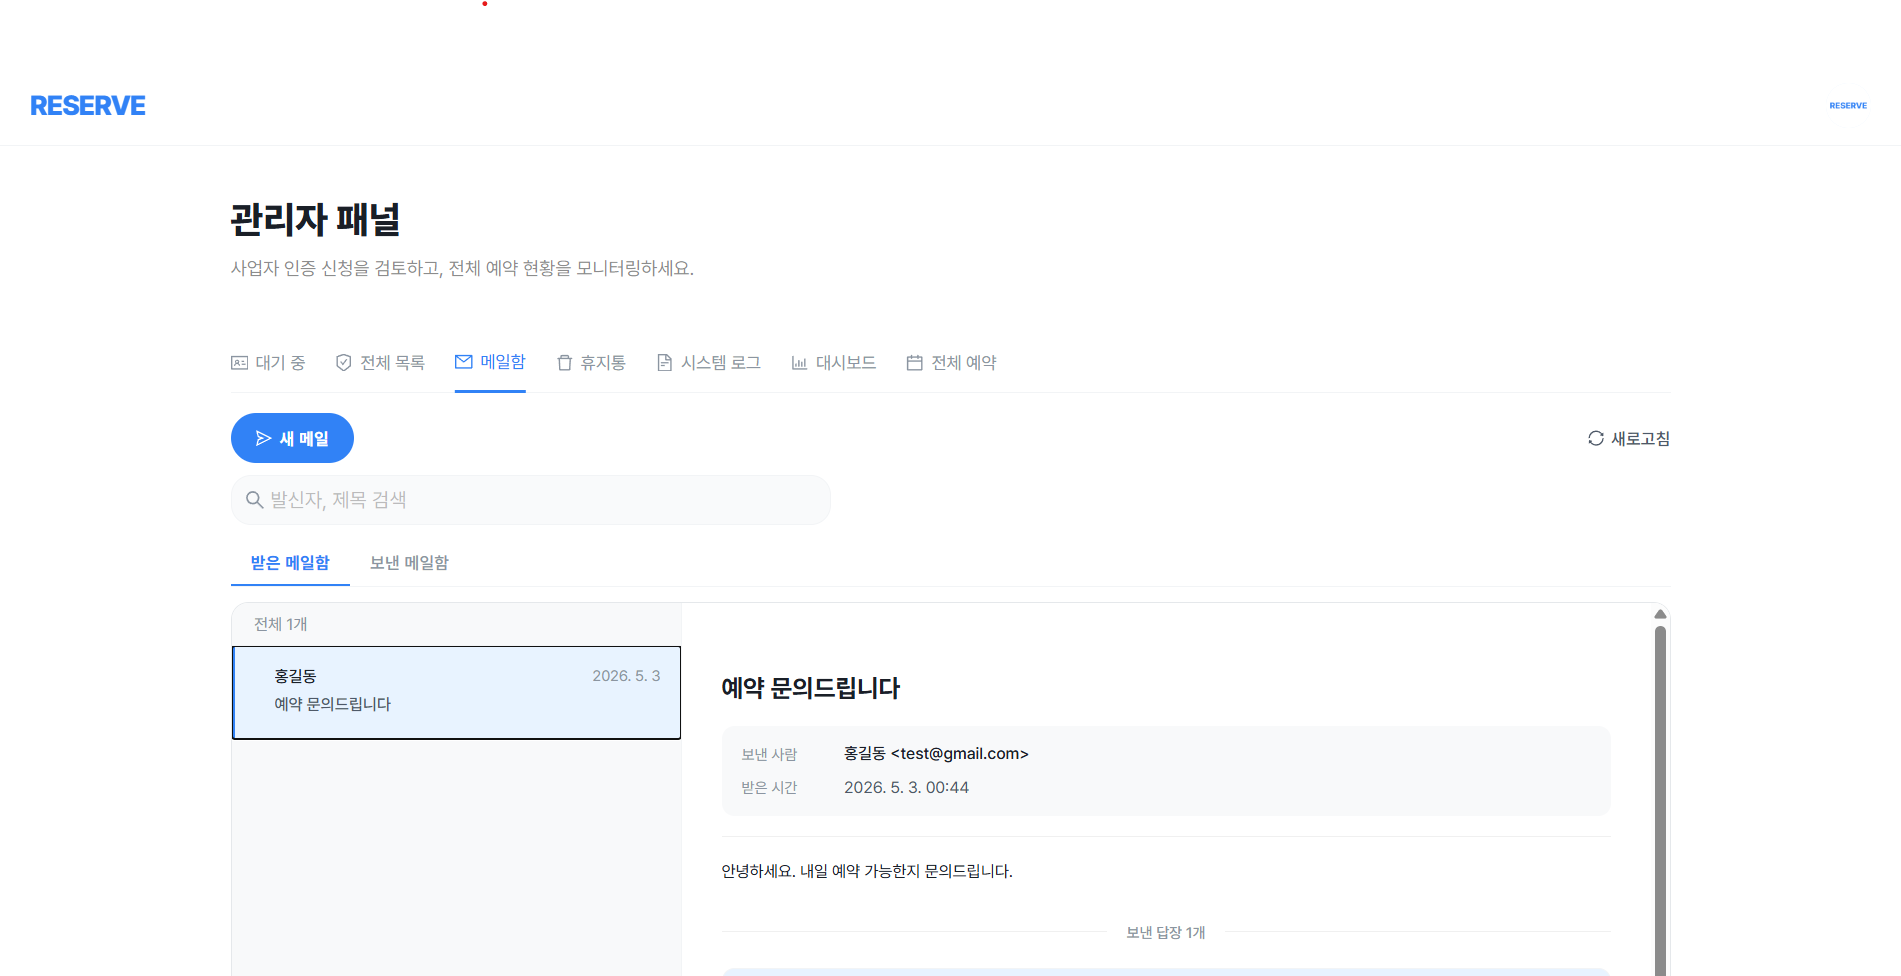
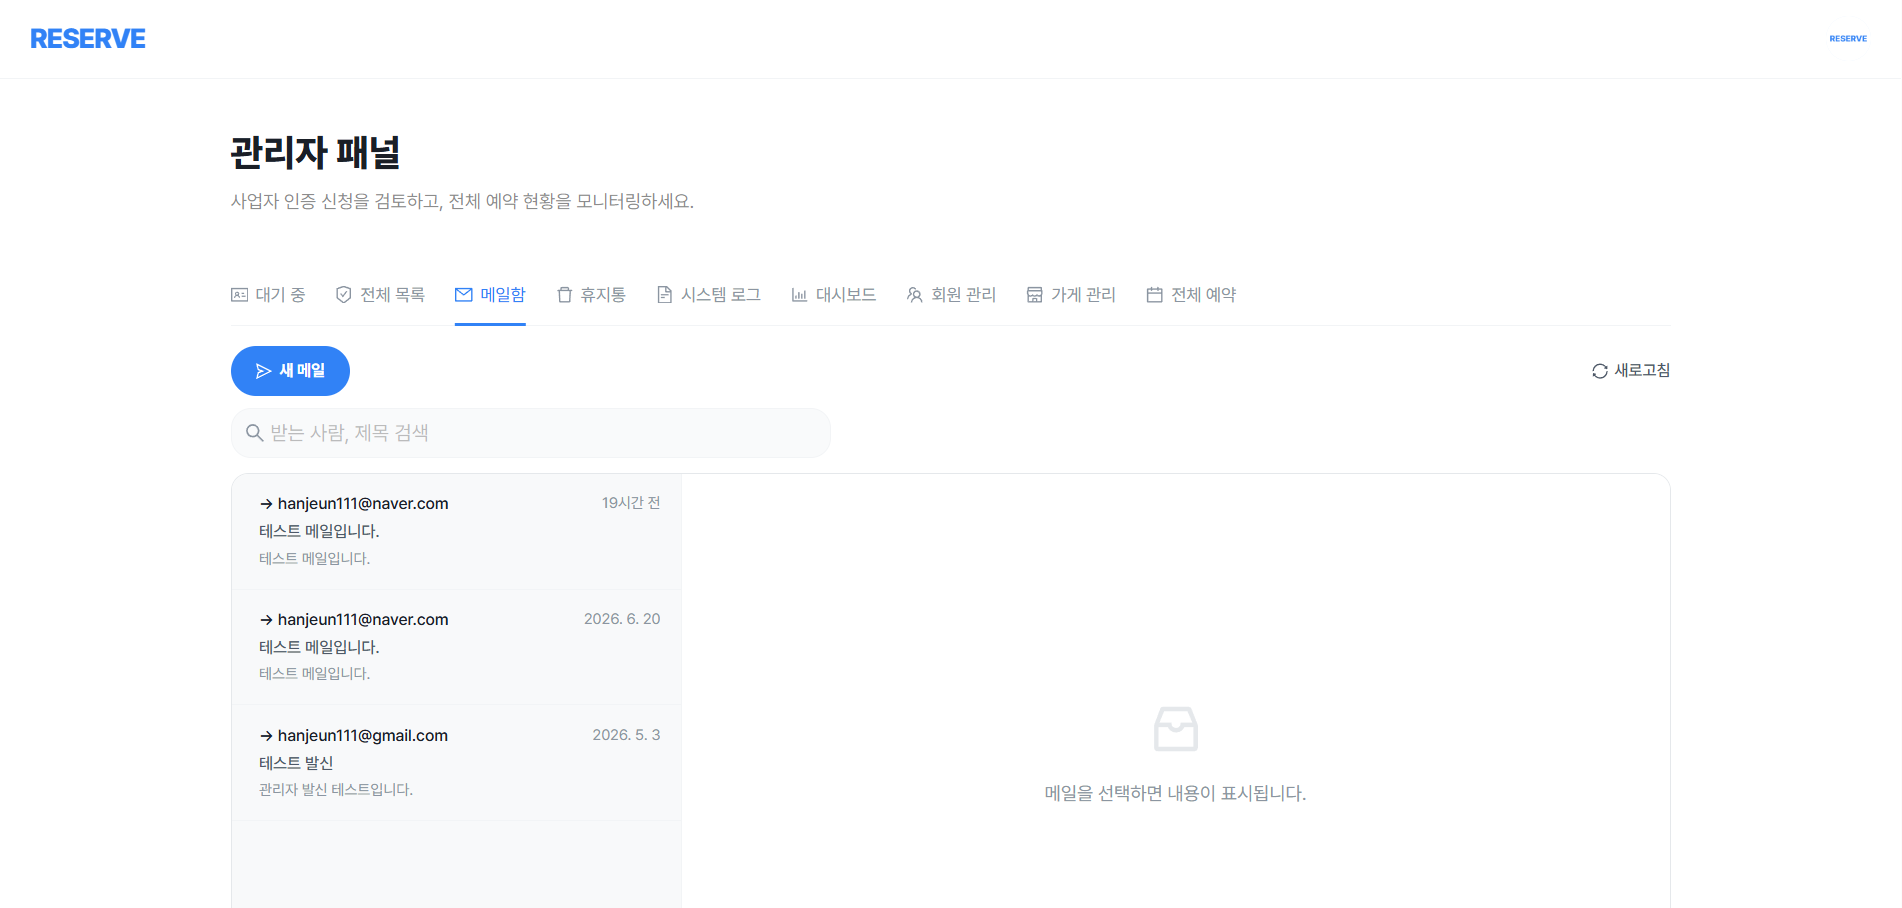
docs: remove ImprovMX references, update screenshots and structure

diff --git a/docs/technical/design-system.md b/docs/technical/design-system.md
@@ -113,7 +113,20 @@ import { FormInput, FormTextArea, FormSelect, FormDatePicker, FormTimePicker } f
 <FormTimePicker.RangePicker />   // 영업시간 설정용
 ```
 
-모든 입력 필드: `variant="filled"`, `border: none`, `backgroundColor: colors.gray[50]`, `borderRadius: radius.lg`, `height: heights.input`
+모든 입력 필드: `variant="filled"`, `border: none`, `backgroundColor: colors.gray[50]`, `borderRadius: radius.lg`, `height: heights.input`, `fontSize: 16px`(호출부 `size` prop과 무관하게 항상 동일 — `.reserve-form-field` CSS 클래스로 전역 강제)
+
+### FormModal
+
+```jsx
+import { FormModal, FormField } from '../components/common';
+
+<FormModal title="문의하기" open={open} onClose={onClose} onSubmit={handleSubmit} submitting={sending}>
+    <FormField label="제목"><FormInput ... /></FormField>
+    <FormField label="내용"><FormTextArea ... /></FormField>
+</FormModal>
+```
+
+"작성해서 제출" 계열 모달(문의하기, 메일 작성 등)의 공용 뼈대 — 너비(520px 고정) · 타이틀 스타일 · 취소/제출 버튼 스타일 · 필드 세로 간격을 한 곳에서 관리해 모달마다 제각각 달라지는 것을 막는다.
 
 ### PageContainer
 

diff --git a/docs/technical/structure.md b/docs/technical/structure.md
@@ -50,6 +50,9 @@ com.reserve/
 ├── review/                        ← 리뷰 작성/수정/삭제
 ├── favorite/                      ← 즐겨찾기 토글/조회
 ├── business/                      ← 사업자 인증 신청/심사
+├── inquiry/                       ← 1:1 문의 (회원/비회원 게스트 모두 가능, 관리자 답변)
+├── mailbox/                       ← 관리자 메일 발송(Resend) — 보낸 메일함, 새 메일 작성만 지원
+├── audit/                         ← 감사 로그 + 휴지통(예약/리뷰/발송메일 소프트 삭제·복구)
 ├── email/                         ← 이메일 인증 코드 발송/검증
 ├── password/                      ← 비밀번호 재설정
 ├── common/

diff --git a/docs/guide/user-guide.md b/docs/guide/user-guide.md
@@ -18,7 +18,7 @@ RESERVE에서 가게를 찾고 예약하는 방법을 안내합니다.
 
 ## 가게 찾기
 
-1. **지금 식당 둘러보기** 버튼 또는 상단 메뉴에서 가게 목록 이동
+1. **가게 둘러보기** 버튼 또는 상단 메뉴에서 가게 목록 이동
 2. 검색창에 가게 이름 · 키워드 입력
 3. 정렬 기준 선택 (평점순 / 최신순 / 리뷰순)
 4. 원하는 가게 카드 클릭

diff --git a/docs/technical/architecture.md b/docs/technical/architecture.md
@@ -131,6 +131,5 @@ feature/*     ← 기능별 작업
 | **DockerHub** | Docker 이미지 저장소 (hanjeun/reserve) |
 | **GitHub Actions** | CI/CD 파이프라인 |
 | **Resend** | 이메일 발송 (reserve@reserve.it.kr) |
-| **ImprovMX** | 이메일 수신 포워딩 (→ hanjeun111@gmail.com) |
 | **Portone V2** | 카카오페이 결제 |
 | **Google/Naver/Kakao** | OAuth2 소셜 로그인 |
